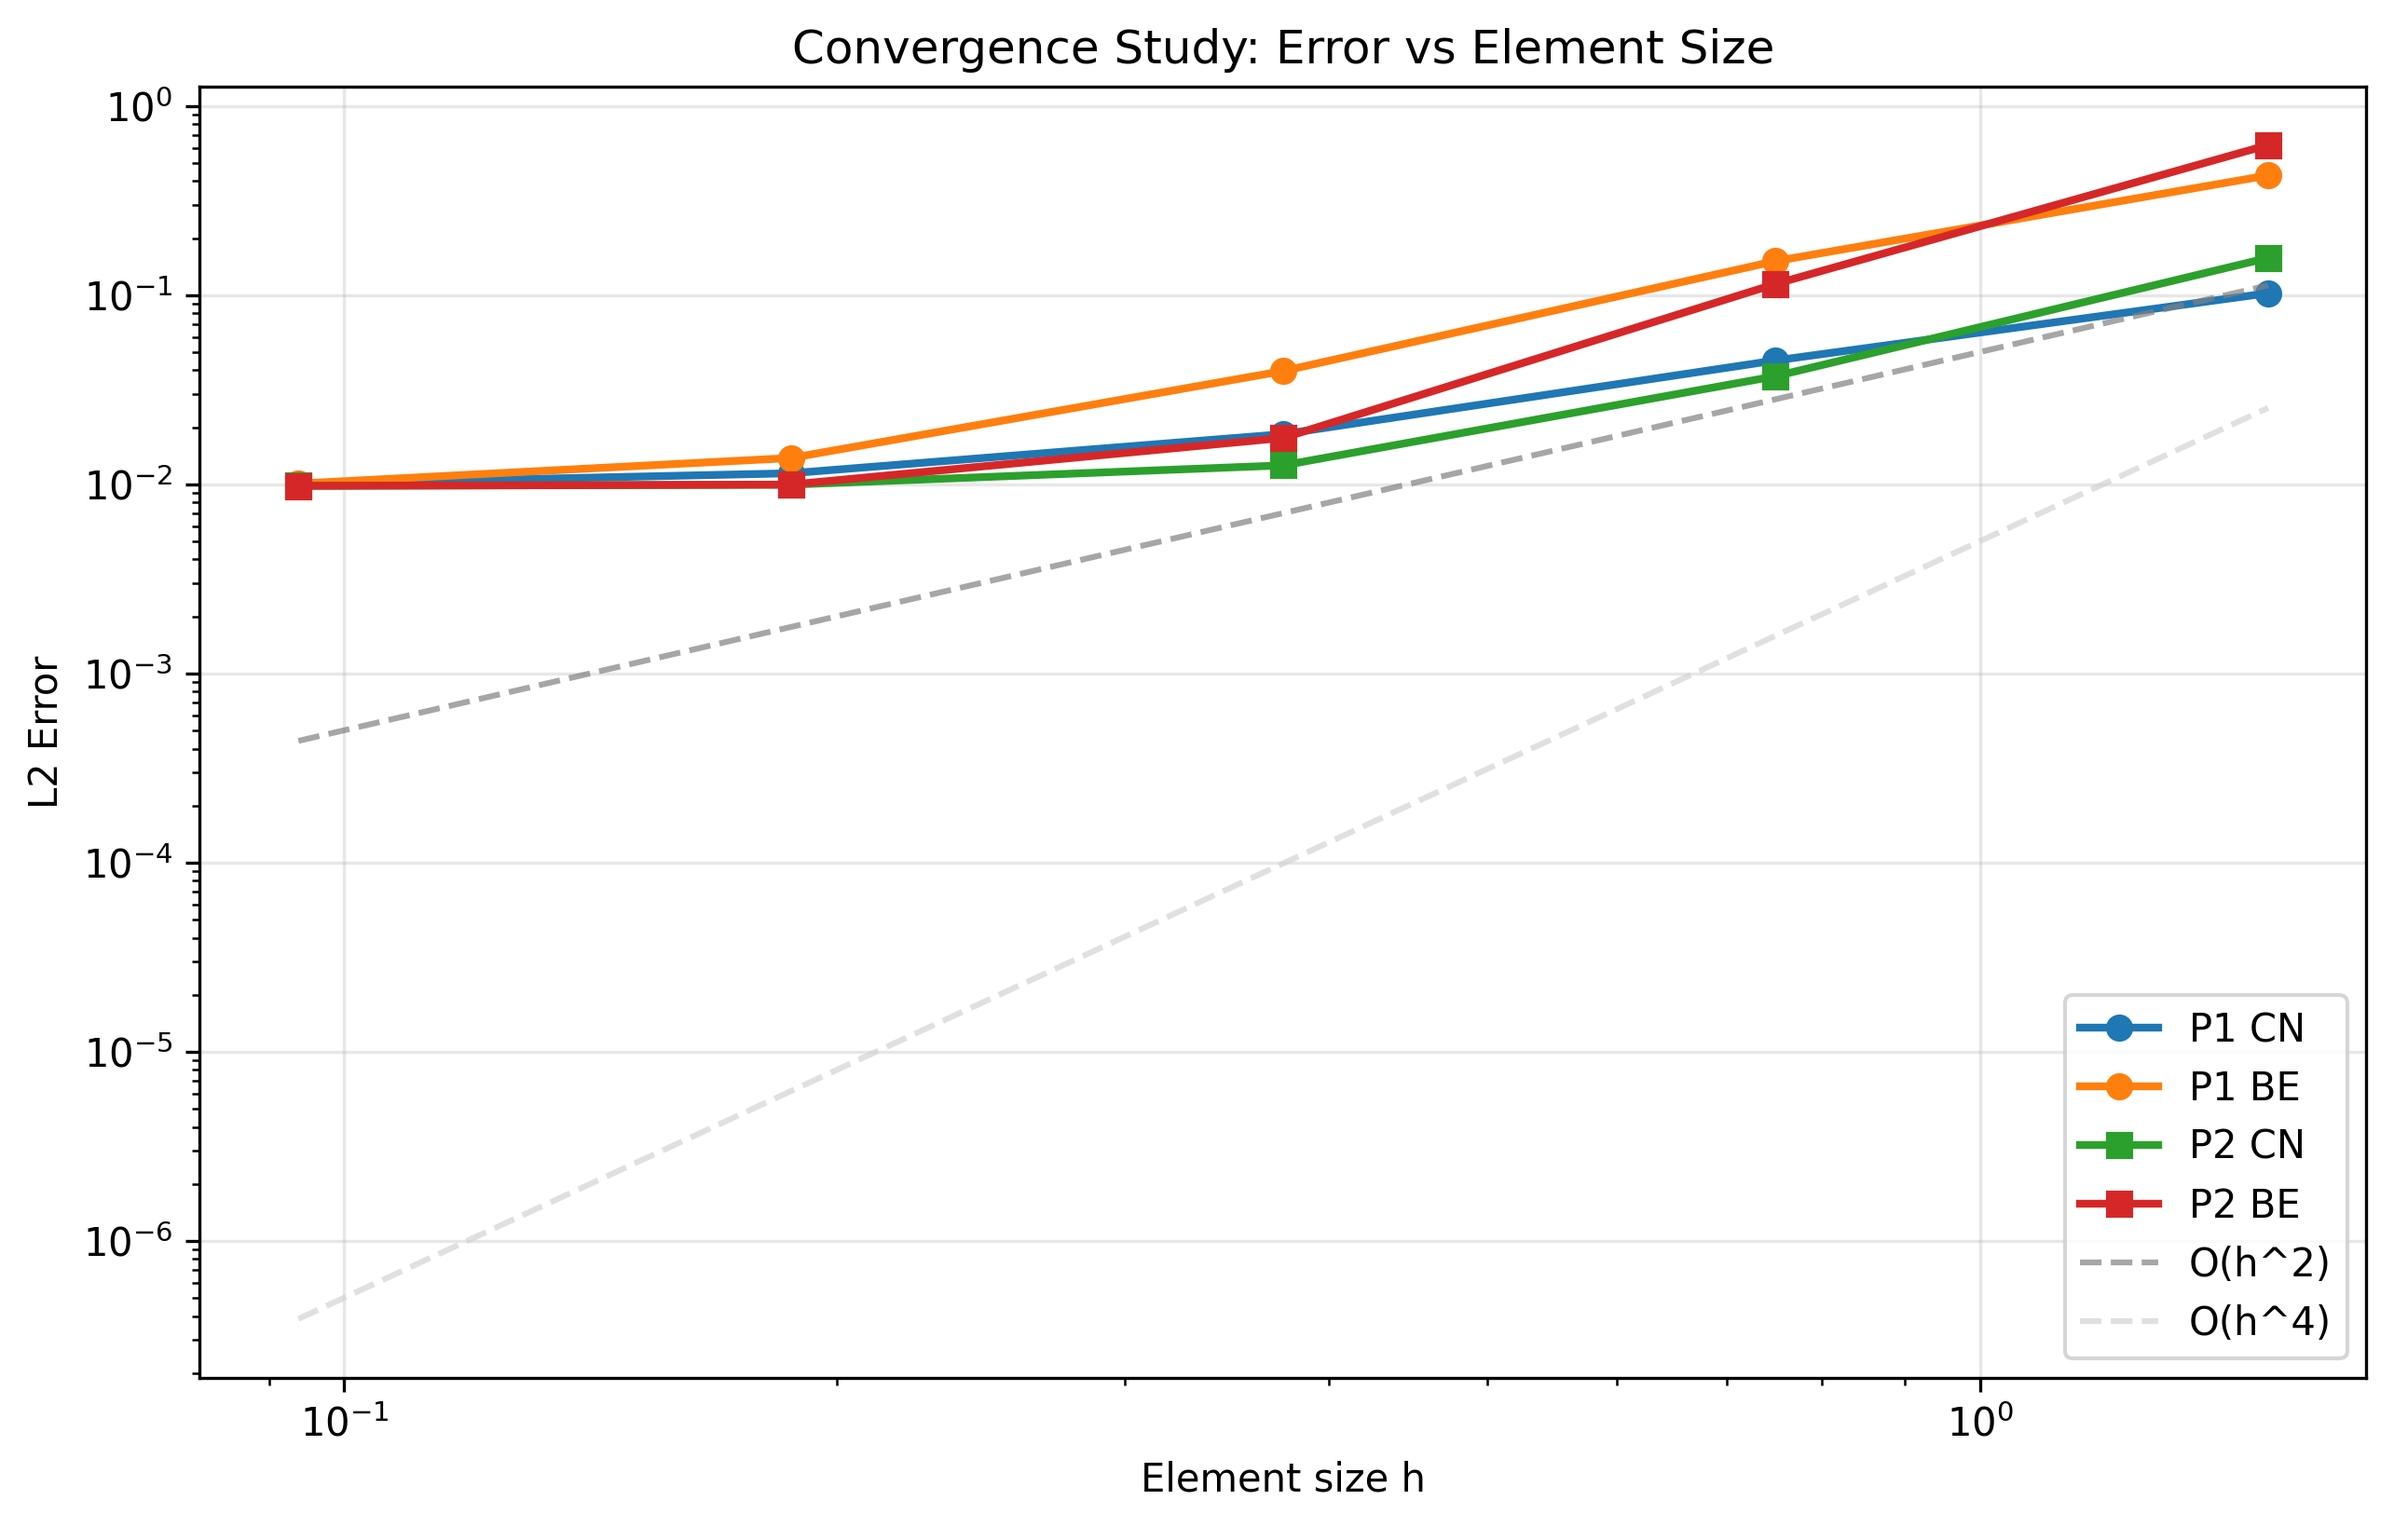
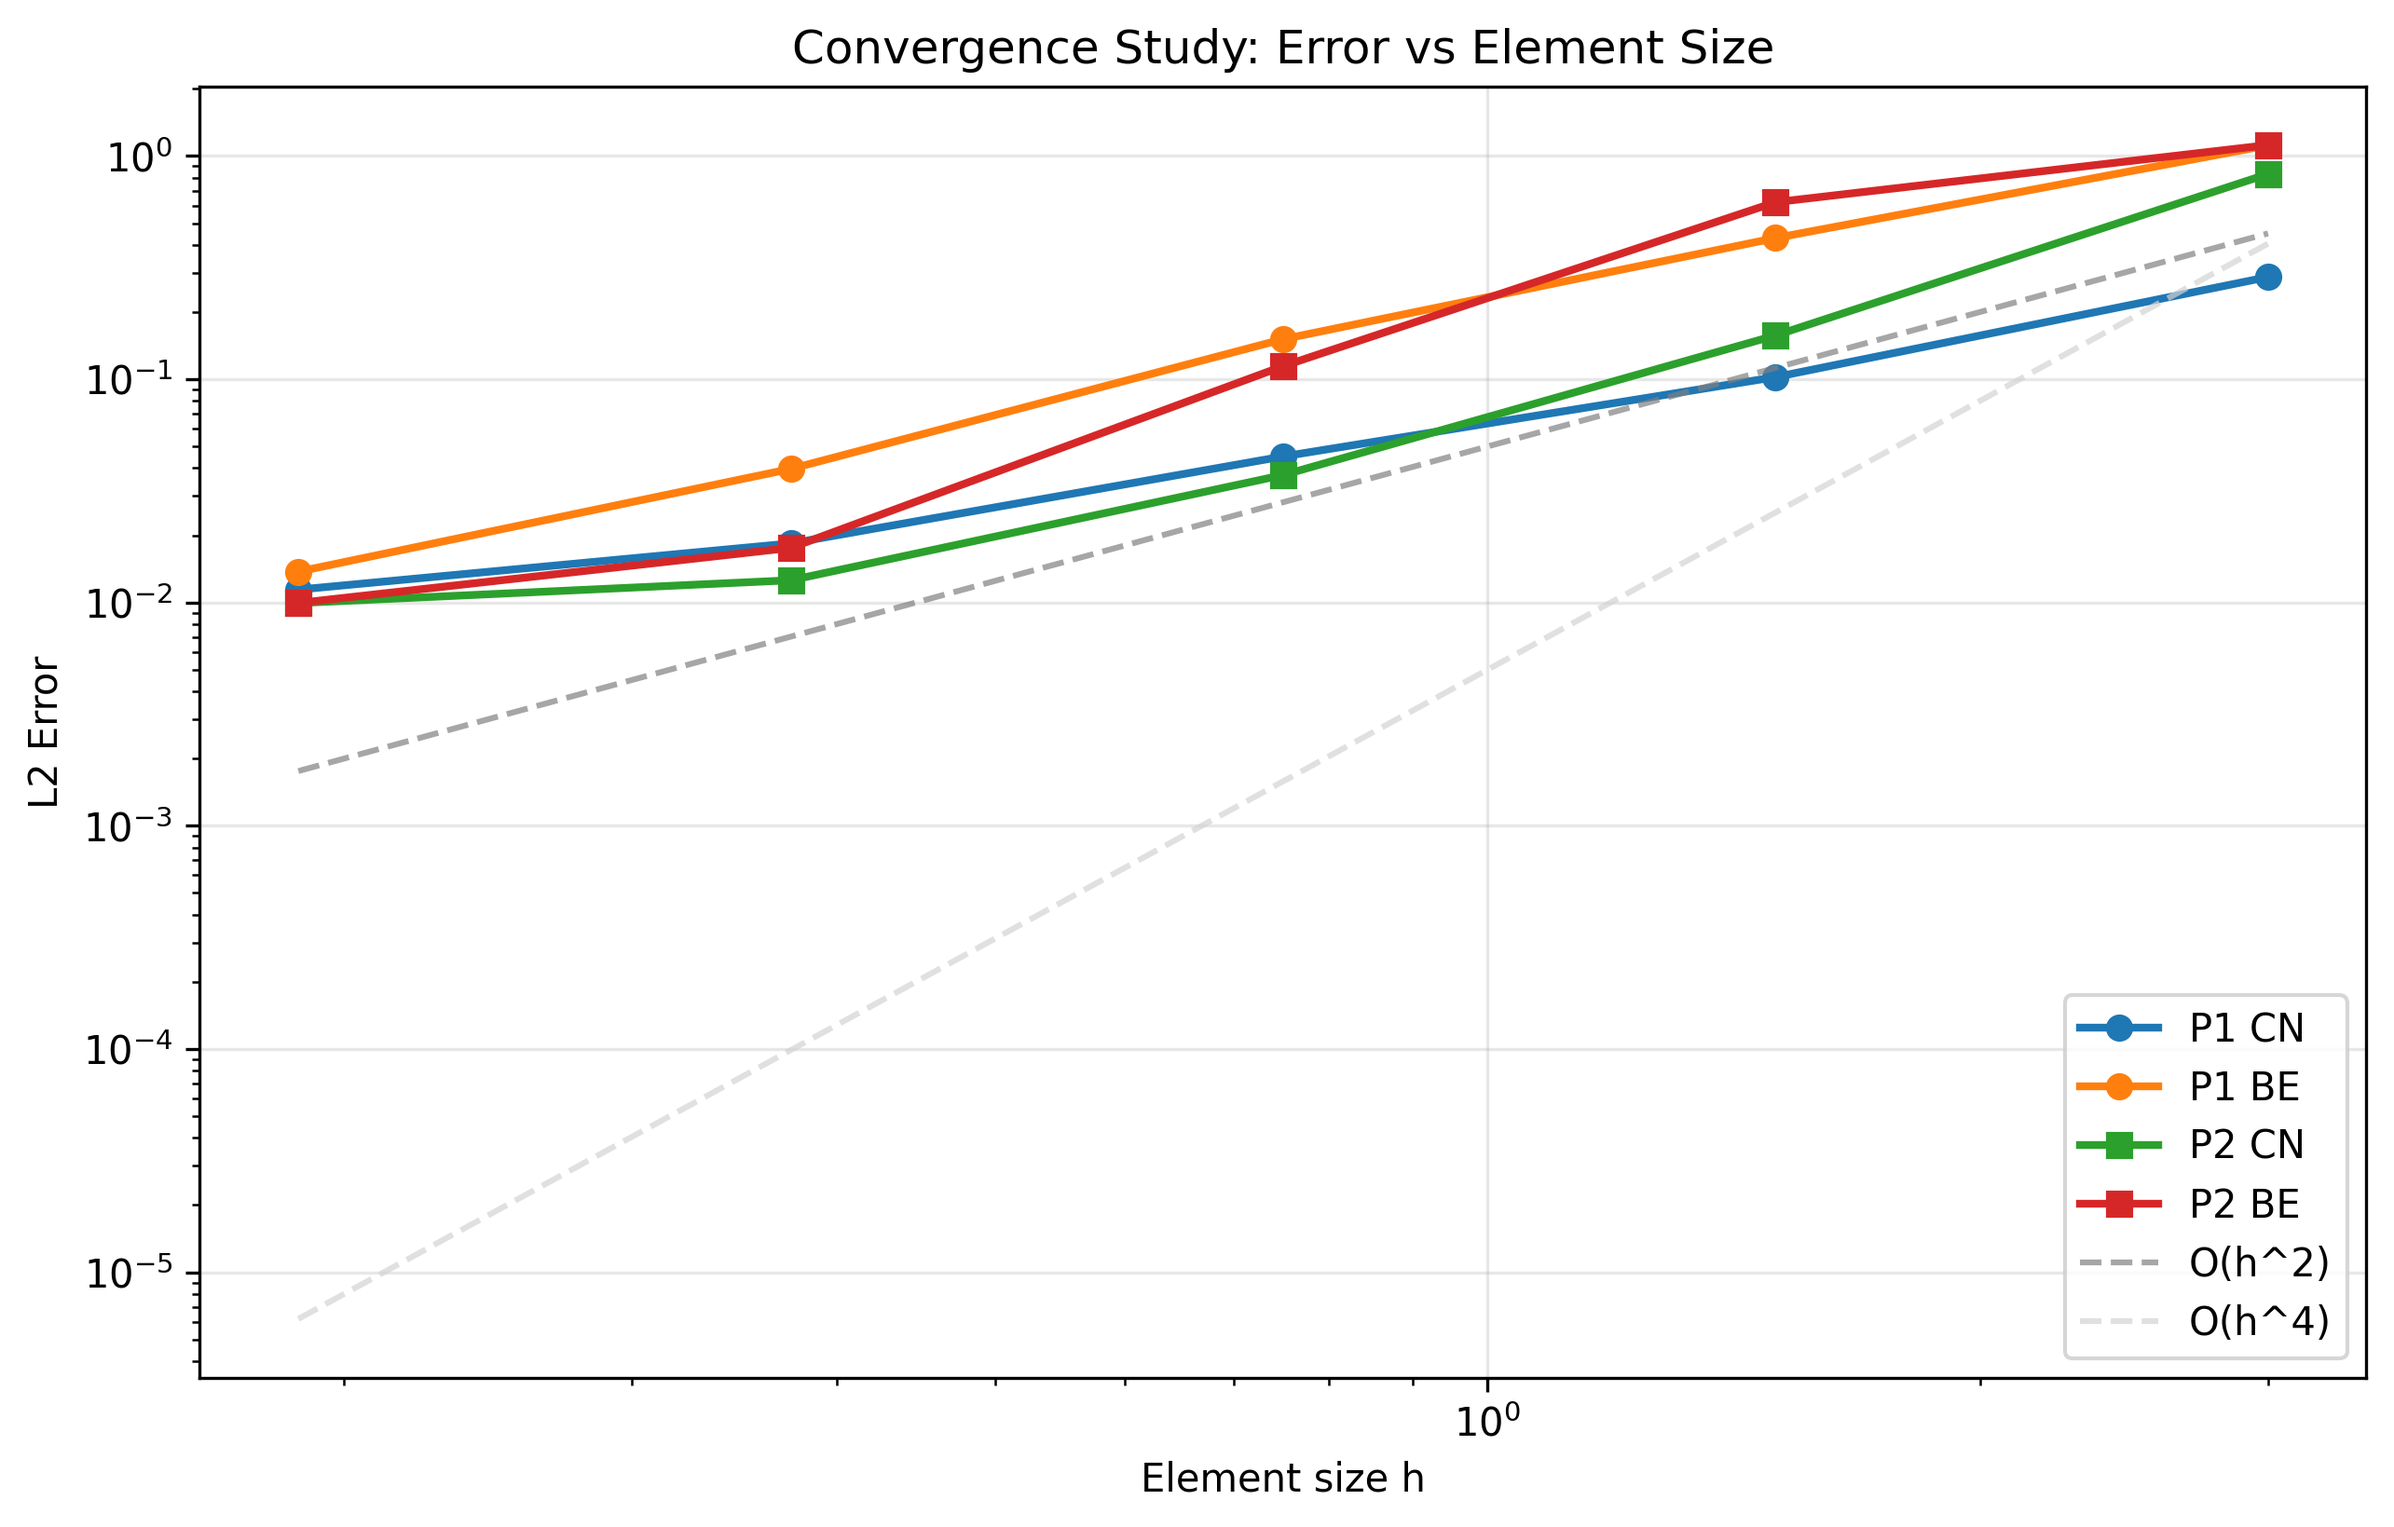
Improved convergence plot for the true solution

diff --git a/code/main.py b/code/main.py
@@ -10,8 +10,8 @@ from fem_solver import FEMSolver
 from black_scholes_pde import *
 
 # Flags to control which parts of the code to run
-COMPUTE_EXAMPLE_1 = True
-COMPUTE_EXAMPLE_2 = True
+COMPUTE_EXAMPLE_1 = False
+COMPUTE_EXAMPLE_2 = False
 COMPUTE_ANALYTICAL = True
 # The convergence study is computationally expensive, so it can be disabled
 COMPUTE_CONVERGENCE_STUDY = True
@@ -268,7 +268,9 @@ def convergence_study(
     errors = []
 
     for i in range(len(element_counts)):
-        print(f"Testing with {element_counts[i]} elements...")
+        h = h_values[i]
+        dt = pde.T / timesteps[i]
+        print(f"Testing with {element_counts[i]} elements: h={h:.4e}, dt={dt:.4e}")
         fem_solver = FEMSolver(
             pde,
             numb_elements=element_counts[i],
@@ -444,7 +446,7 @@ if __name__ == "__main__":
         
         # Run convergence study to see the error vs. h curve
         if COMPUTE_CONVERGENCE_STUDY:
-            element_counts = [200 * 2**i for i in range(0, 5)]
+            element_counts = [int(200 * 2**i) for i in range(-1, 4)]
             h_errors_dict = {}
             # P1 CN
             h1, e1 = convergence_study(pde, element_counts, schema='CN', element_type='P1', dt_h_power=1, dt_h_factor=1.0, numb_quad_points=5)
@@ -459,4 +461,4 @@ if __name__ == "__main__":
             h4, e4 = convergence_study(pde, element_counts, schema='BE', element_type='P2', dt_h_power=3, dt_h_factor=1.0, numb_quad_points=5)
             h_errors_dict['P2 BE'] = (h4, e4)
             plot_convergence_errors(h_errors_dict, filename=f"./code/images/convergence_study_{pde.__class__.__name__}.png")
-        
+
